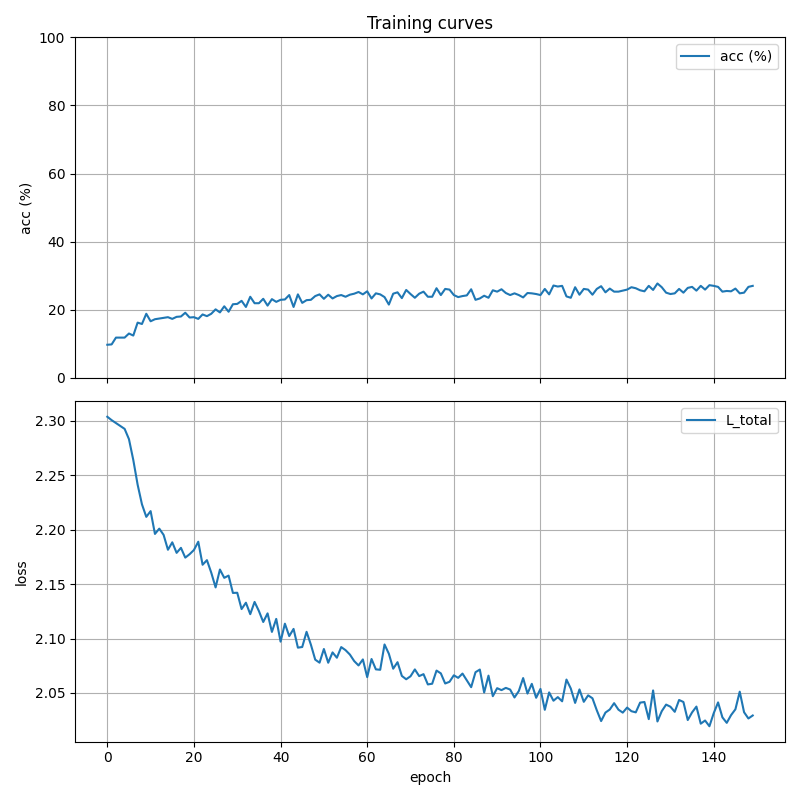
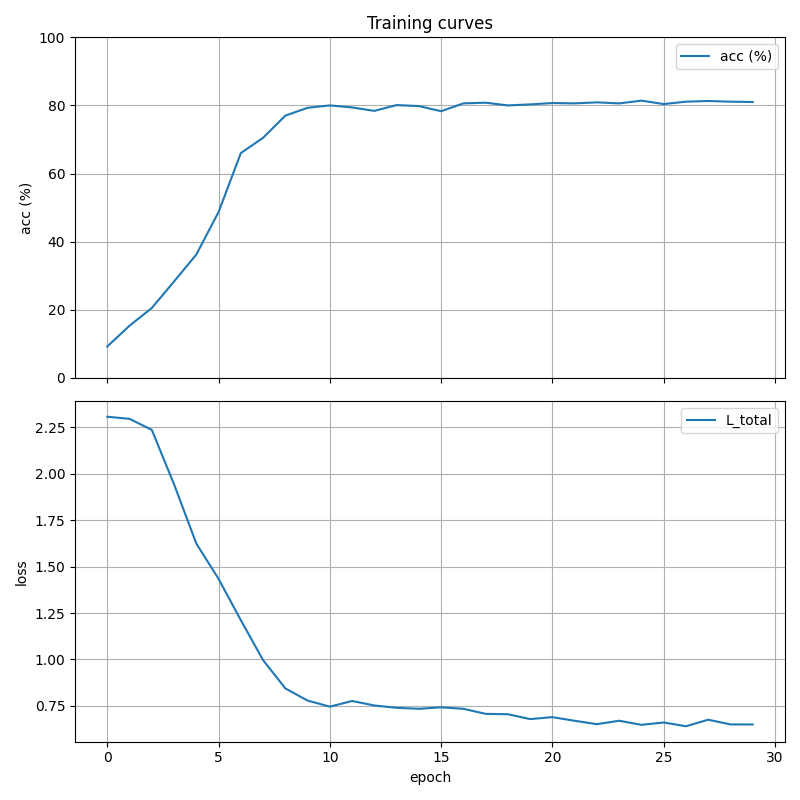
teacher analysis

diff --git a/MY_code/CLI_interface.py b/MY_code/CLI_interface.py
@@ -40,7 +40,7 @@ def main(argv: list[str] | None = None) -> int:
 
 if __name__ == "__main__":
     IDE_COMMAND = "train"
-    IDE_TRAIN_STAGE = 5  # 0: CNN, 1: Encoder, 2: Controller, 3: Decoder, 4: E2E, 5: Debug (Enc+Dec)
+    IDE_TRAIN_STAGE = 6  # 1: Encoder, 2: Controller, 3: Decoder, 4: E2E, 5: Debug (Enc+Dec), 6: Full (4+1-3)
 
     IDE_TRAIN_ARGS: dict[str, object] = {
         "--N_t": 8,    # Nt
@@ -58,9 +58,9 @@ if __name__ == "__main__":
         "--noise_std":  1e-6,
         "--tx_power_dbm": 30.0, # 30 dBm = 1 W
         "--geo_pathloss_exp": 2.0,
-        "--geo_pathloss_gain_db": 70.0, # TODO: It has to be ~60
+        "--geo_pathloss_gain_db": 60.0, # TODO: It has to be ~60
         "--k_factor_db": 3.0,  # direct-link K-factor in dB (H1/H2 use 13/7 inside training.py)
-        "--epochs": 150,
+        "--epochs": 30,
     }
 
     # Select the stage configuration based on IDE_TRAIN_STAGE
@@ -102,7 +102,8 @@ if __name__ == "__main__":
         },
         4: { # Default / End-to-End training
             "--encoder_distill": False,
-            "--plot_path": "plots/E2E.png",
+            "--save_path": "models_dict/phase4_e2e.pth",
+            "--plot_path": "plots/phase4_e2e.png",
         }
     }
 
@@ -506,54 +507,76 @@ if __name__ == "__main__":
 
     argv = sys.argv[1:]
     if not argv:
-        config = IDE_TRAIN_ARGS if IDE_COMMAND == "train" else IDE_TEST_ARGS
-
-        # Special case: classifier training mode - use simple arg passing
-        # Check if --train_classifier is True (not a list for comparison)
-        train_classifier_val = config.get("--train_classifier")
-        if train_classifier_val is True or (isinstance(train_classifier_val, list) and any(train_classifier_val)):
-            if isinstance(train_classifier_val, list):
-                print("[WARNING] --train_classifier should be True (not a list). Using first truthy value.")
-                # For lists, we'll just run with the first truthy value
-                config = dict(config)
-                config["--train_classifier"] = next((v for v in train_classifier_val if v), True)
-
-            simple_args = []
-            for k, v in config.items():
-                if v is None or v is False:
-                    continue
-                if k == "--train_classifier" and v is True:
-                    simple_args.append("--train_classifier")
-                    continue
-                if isinstance(v, bool):
-                    if v:
-                        simple_args.append(k)
-                    continue
-                if isinstance(v, tuple):
-                    simple_args.append(k)
-                    simple_args += [str(x) for x in v]
-                    continue
-                if isinstance(v, list):
-                    # Skip lists in classifier mode (not supported)
-                    continue
-                simple_args += [k, str(v)]
-            rc = main([IDE_COMMAND, *simple_args])
-            raise SystemExit(rc)
+        # Determine which stages to run
+        if IDE_COMMAND == "train" and IDE_TRAIN_STAGE == 6:
+            stages_to_run = [4, 1, 2, 3]  # E2E -> Enc Distill -> Ctrl Distill -> Decoder
+        else:
+            stages_to_run = [IDE_TRAIN_STAGE]
 
         rc = 0
-        for run_args in _build_cli_runs(
-            config,
-            disable_default_plot_path=(IDE_COMMAND == "train"),
-            disable_default_save_path=(IDE_COMMAND == "train"),
-            plot_implies_show=(IDE_COMMAND == "test"),
-            plot_role_subdir=(IDE_COMMAND == "train"),
-            default_plot_filename=("training_curves.png" if IDE_COMMAND == "train" else "test_summary.png"),
-            checkpoint_is_under_models_dict=(IDE_COMMAND == "test"),
-            collapse_sweep_to_compare_arg=(IDE_COMMAND in {"test", "train"}),
-        ):
-            rc = main([IDE_COMMAND, *run_args])
+        for stage in stages_to_run:
+            print(f"\n>>> [IDE] Starting Training Stage: {stage} ...")
+
+            # Re-initialize config for this specific stage
+            config = dict(IDE_TRAIN_ARGS)
+            if stage in STAGED_CONFIGS:
+                config.update(STAGED_CONFIGS[stage])
+            elif IDE_COMMAND == "test":
+                config = IDE_TEST_ARGS
+
+            # Special case for Stage 6: use E2E encoder as teacher for Phase 1
+            if IDE_TRAIN_STAGE == 6 and stage == 1:
+                print("[IDE] Stage 6: Injecting E2E model as teacher for Phase 1 distillation")
+                config["--teacher_path"] = "models_dict/phase4_e2e.pth"
+
+            # Special case: classifier training mode (Stage 0)
+            train_classifier_val = config.get("--train_classifier")
+            if train_classifier_val is True or (isinstance(train_classifier_val, list) and any(train_classifier_val)):
+                if isinstance(train_classifier_val, list):
+                    print("[WARNING] --train_classifier should be True (not a list). Using first truthy value.")
+                    config = dict(config)
+                    config["--train_classifier"] = next((v for v in train_classifier_val if v), True)
+
+                simple_args = []
+                for k, v in config.items():
+                    if v is None or v is False:
+                        continue
+                    if k == "--train_classifier" and v is True:
+                        simple_args.append("--train_classifier")
+                        continue
+                    if isinstance(v, bool):
+                        if v:
+                            simple_args.append(k)
+                        continue
+                    if isinstance(v, tuple):
+                        simple_args.append(k)
+                        simple_args += [str(x) for x in v]
+                        continue
+                    if isinstance(v, list):
+                        continue
+                    simple_args += [k, str(v)]
+
+                rc = main([IDE_COMMAND, *simple_args])
+            else:
+                # Normal staged or E2E training
+                for run_args in _build_cli_runs(
+                    config,
+                    disable_default_plot_path=(IDE_COMMAND == "train"),
+                    disable_default_save_path=(IDE_COMMAND == "train"),
+                    plot_implies_show=(IDE_COMMAND == "test"),
+                    plot_role_subdir=(IDE_COMMAND == "train"),
+                    default_plot_filename=("training_curves.png" if IDE_COMMAND == "train" else "test_summary.png"),
+                    checkpoint_is_under_models_dict=(IDE_COMMAND == "test"),
+                    collapse_sweep_to_compare_arg=(IDE_COMMAND in {"test", "train"}),
+                ):
+                    rc = main([IDE_COMMAND, *run_args])
+                    if rc != 0:
+                        break
+
             if rc != 0:
+                print(f"[ERROR] Stage {stage} failed with exit code {rc}. Aborting.")
                 break
+
         raise SystemExit(rc)
 
     raise SystemExit(main(argv))

diff --git a/MY_code/training.py b/MY_code/training.py
@@ -1763,26 +1763,57 @@ if __name__ == '__main__':
 
             # Setup teacher/distillers for stages 2 and 3
             if stage in [2, 3]:
-                classifier_ckpt = cfg.teacher_path or DEFAULT_CNN_CLASSIFIER_PATH
-                if not os.path.exists(classifier_ckpt):
-                    raise RuntimeError(f"Teacher model not found at {classifier_ckpt}. Run Stage 1 (train_classifier) first.")
+                teacher_ckpt_path = cfg.teacher_path or DEFAULT_CNN_CLASSIFIER_PATH
+                if not os.path.exists(teacher_ckpt_path):
+                    raise RuntimeError(f"Teacher model not found at {teacher_ckpt_path}. Run Stage 1 (train_classifier) first.")
 
                 # Load teacher
-                teacher = MNISTClassifier(num_classes=10, use_channel=False).to(device)
-                teacher_ckpt = torch.load(classifier_ckpt, map_location=device)
-                teacher.load_state_dict(teacher_ckpt["classifier"], strict=False)
-                teacher.eval()
+                teacher_ckpt = torch.load(teacher_ckpt_path, map_location=device)
 
-                if stage == 2:
-                    extractor = CNNTeacherExtractor(teacher).to(device)
-                    encoder_distiller = EncoderFeatureDistiller(
-                        extractor, encoder, pre_relu=True, distill_conv=True, distill_s=False
-                    ).to(device)
+                if "classifier" in teacher_ckpt:
+                    # Traditional CNN teacher
+                    teacher_model = MNISTClassifier(num_classes=10, use_channel=False).to(device)
+                    teacher_model.load_state_dict(teacher_ckpt["classifier"], strict=False)
+                    teacher_model.eval()
 
-                if stage == 3:
-                    # Layer configs for teacher layers 3 and 4: (channels, h, w)
-                    layer_configs = [(128, 14, 14), (256, 7, 7)]
-                    controller_distiller = ControllerDistiller(teacher, int(cfg.N_r), layer_configs).to(device)
+                    if stage == 2:
+                        teacher_extractor = CNNTeacherExtractor(teacher_model).to(device)
+                        encoder_distiller = EncoderFeatureDistiller(
+                            teacher_extractor, encoder, pre_relu=True, distill_conv=True, distill_s=False
+                        ).to(device)
+
+                    if stage == 3:
+                        layer_configs = [(128, 14, 14), (256, 7, 7)]
+                        controller_distiller = ControllerDistiller(teacher_model, int(cfg.N_r), layer_configs).to(device)
+
+                elif "encoder" in teacher_ckpt:
+                    # E2E Encoder as teacher (Stage 2 only)
+                    print(f"[INFO] Stage {stage}: Using E2E encoder from {teacher_ckpt_path} as teacher")
+                    teacher_encoder = Encoder(Nt=int(cfg.N_t)).to(device)
+                    teacher_encoder.load_state_dict(teacher_ckpt["encoder"], strict=False)
+                    teacher_encoder.eval()
+
+                    if stage == 2:
+                        # Direct Encoder-to-Encoder distillation
+                        encoder_distiller = EncoderFeatureDistiller(
+                            teacher_encoder, encoder, pre_relu=True, distill_conv=True, distill_s=True
+                        ).to(device)
+
+                    if stage == 3:
+                        # Controller distillation still needs a classifier for high-level target features
+                        print(f"[WARNING] E2E checkpoint used for Stage 3 teacher. Controller distillation requires an MNISTClassifier teacher for target features.")
+                        if os.path.exists(DEFAULT_CNN_CLASSIFIER_PATH):
+                            print(f"[INFO] Falling back to {DEFAULT_CNN_CLASSIFIER_PATH} for Stage 3 teacher features.")
+                            fallback_ckpt = torch.load(DEFAULT_CNN_CLASSIFIER_PATH, map_location=device)
+                            teacher_model = MNISTClassifier(num_classes=10, use_channel=False).to(device)
+                            teacher_model.load_state_dict(fallback_ckpt["classifier"], strict=False)
+                            teacher_model.eval()
+                            layer_configs = [(128, 14, 14), (256, 7, 7)]
+                            controller_distiller = ControllerDistiller(teacher_model, int(cfg.N_r), layer_configs).to(device)
+                        else:
+                            raise RuntimeError(f"E2E checkpoint cannot be used for Stage 3 (Controller) distillation, and no default CNN teacher found at {DEFAULT_CNN_CLASSIFIER_PATH}")
+                else:
+                    raise RuntimeError(f"Unknown checkpoint format at {teacher_ckpt_path}. Expected 'classifier' or 'encoder' key.")
         elif bool(cfg.encoder_distill):
             # Phase 1: Train encoder with distillation (Legacy path)
             model_store_name = "encoder_distilled"

diff --git a/MY_code/MD_files/TEACHER_ANALYSIS.md b/MY_code/MD_files/TEACHER_ANALYSIS.md
@@ -1,0 +1,46 @@
+# Teacher Analysis: CNN Classifier vs. E2E Encoder
+
+This document analyzes the performance gap observed when using different teacher models for the staged encoder training (Stage 2) in the MNIST OTA-RIS pipeline.
+
+## The Problem: The "Unaware" CNN Teacher
+
+In the original staged training workflow (Phases 0-3), the student encoder was trained via feature distillation from a standalone **MNIST CNN Classifier**.
+
+### Observations
+- Distillation loss decreased during Stage 2 training.
+- However, final classification performance (Stage 4/6) was poor.
+- The system failed to achieve high accuracy even under low noise conditions.
+
+### Root Cause Analysis
+The root problem lies in the nature of the teacher's features. A standard CNN classifier (Phase 0) is trained on clean MNIST images without any concept of a communication channel. It learns features that are optimized for **direct spatial classification**, which often include high-frequency details or specific spatial arrangements that are fragile when passed through:
+1.  **MIMO Channels**: Fading and phase shifts.
+2.  **Metasurface (RIS)**: Phase configurations that might distort certain features.
+3.  **Noise**: AWGN at the receiver.
+
+Because the CNN teacher is "unaware" of these physical constraints, it forces the student encoder to learn a representation that is difficult to recover after transmission. The student learns to mimic a teacher that has never seen a channel, making the decoder's job nearly impossible.
+
+## The Solution: The "Channel-Aware" E2E Teacher
+
+To solve this, we introduced a new sequence in **Stage 6**:
+1.  **Stage 4 (E2E Training)**: Train the entire network (Encoder + Channel + Decoder) end-to-end first.
+2.  **Phase 1 (Distillation)**: Use the resulting **E2E Encoder** as the teacher for the student.
+
+### Results
+- Significant improvement in final classification accuracy.
+- Faster convergence in later stages (Controller and Decoder training).
+- Better robustness to varying channel conditions.
+
+### Why It Works
+An E2E-trained encoder has already learned to produce features that are **robust to the channel**. Through the E2E training process, it discovers a mapping from the image space to the transmit space ($s$) that preserves information even after fading and noise.
+
+By distilling from an **E2E Teacher**, the student:
+- Inherits a "communication-friendly" feature space.
+- Learns which parts of the image are critical for classification *after* being transmitted.
+- Avoids mimicking fragile features that the receiver (decoder) would never be able to see anyway.
+
+## Conclusion
+
+The transition from a "Perfect but Unaware" teacher (CNN) to a "Task-Aware" teacher (E2E) was the key to unlocking performance in the staged training pipeline. This confirms that for Over-the-Air (OTA) tasks, feature distillation should prioritize targets that are compatible with the physical layer constraints.
+
+---
+*Last Updated: January 2026*

diff --git a/MY_code/MD_files/CODE_EXPLANATION.md b/MY_code/MD_files/CODE_EXPLANATION.md
@@ -24,7 +24,7 @@ MY_code/
 ├── channel_tensors.py       # Channel generation (Synthetic and Geometric models)
 ├── training.py              # Training loops (Staged, 2-Phase, Alternating, Original)
 ├── test.py                  # Evaluation (Multi-trial, Comparisons, Plotting)
-├── CLI_interface.py         # Dispatcher for IDE convenience
+├── CLI_interface.py         # Automated dispatcher and IDE convenience
 ├── test_channel_aware_teacher.py # Validation for the channel-aware teacher logic
 └── models_dict/             # Saved model checkpoints (.pth)
 ```
@@ -49,6 +49,12 @@ Enabled via `--stage <N>`. Follows a 4-stage procedure:
 #### 3. Alternating Training
 Enabled via `--alternating_train`.
 - Each epoch is split: one half trains the Decoder/Controller (frozen Encoder), the other half trains the Encoder (frozen Decoder/Controller).
+
+#### 4. Automated Multi-Stage Training (`CLI_interface.py`)
+Provides a high-level wrapper to run sequential phases automatically:
+- **Phase 0**: Train Teacher (Stage 1).
+- **Phase 4-1-3 (Improved Pipeline)**: Runs E2E training (Stage 4), then uses the resulting encoder as a teacher for Phase 1 distillation, followed by Phase 2 (Controller) and Phase 3 (Decoder). This approach solves the feature mismatch problem (see [TEACHER_ANALYSIS.md](TEACHER_ANALYSIS.md)).
+- Configure via `IDE_TRAIN_STAGE = 6` in `CLI_interface.py`.
 
 ---
 
@@ -87,6 +93,13 @@ python MY_code/training.py --stage 2 --epochs 10 --teacher_path MY_code/models_d
 **Evaluation with Comparison:**
 ```bash
 python MY_code/test.py --compare_arg noise_std 1e-6 1e-5 1e-4 --checkpoint my_model.pth --plot
+```
+
+**Automated Full Pipeline (Phases 1-3):**
+1. Set `IDE_TRAIN_STAGE = 6` in `MY_code/CLI_interface.py`.
+2. Run:
+```bash
+python MY_code/CLI_interface.py
 ```
 
 ---
